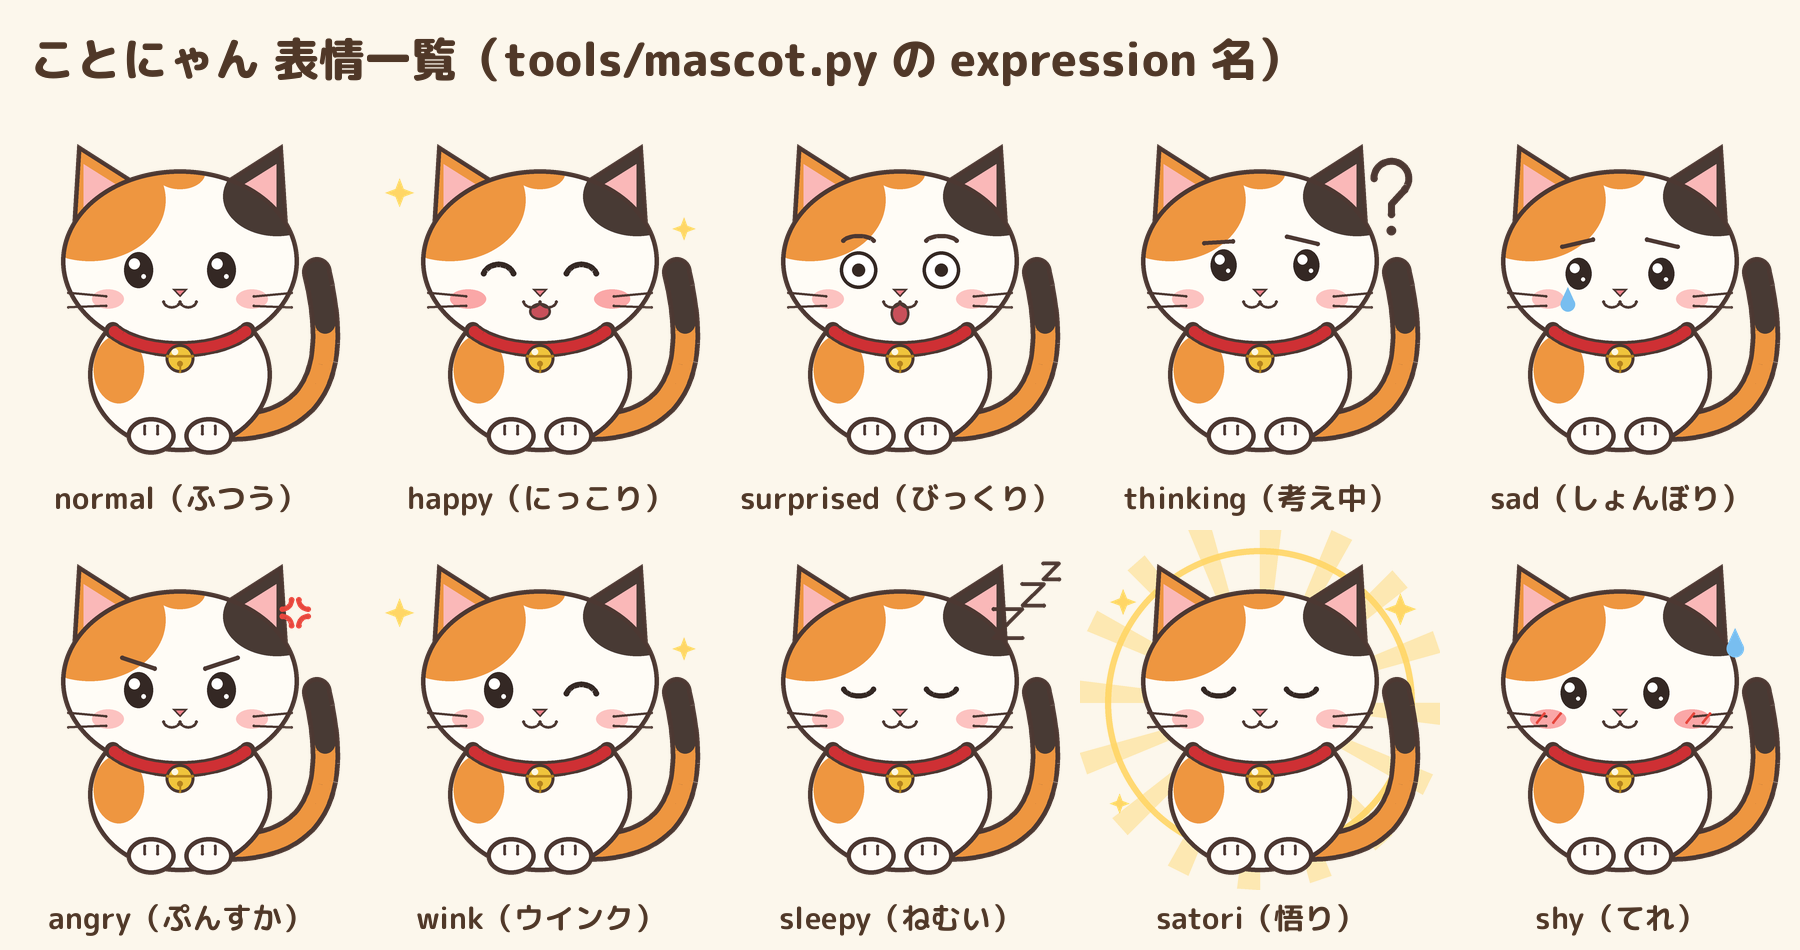
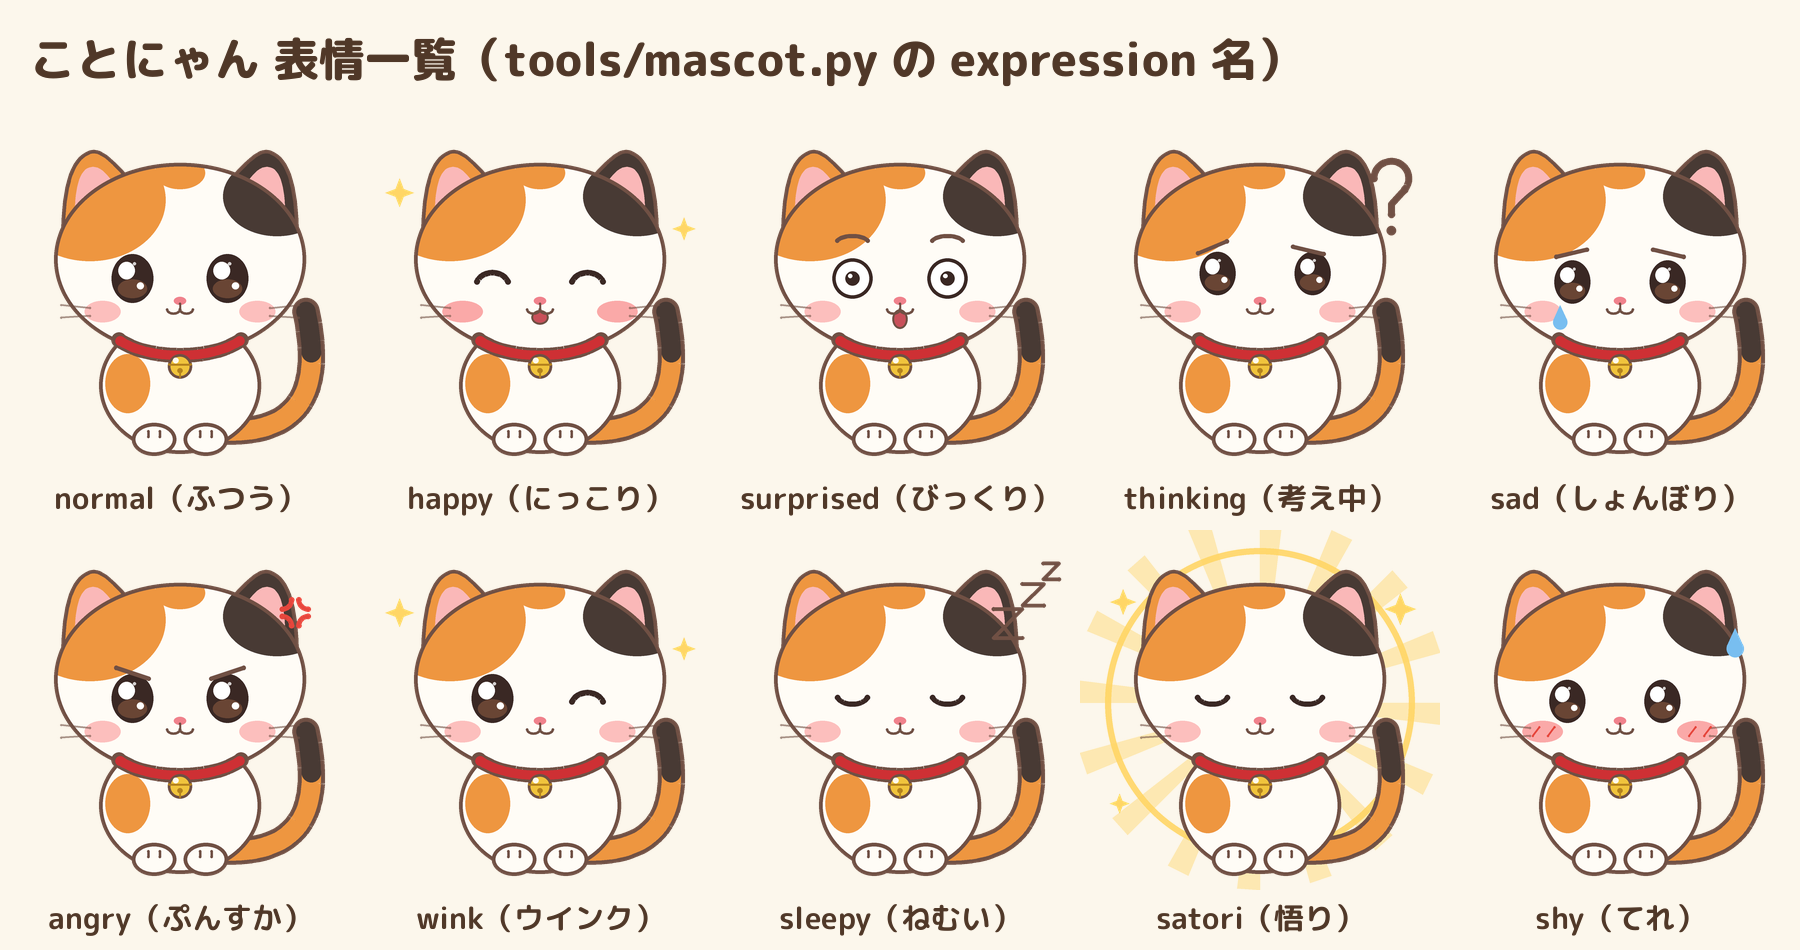
ことにゃんをより可愛く：大きな目・丸い耳・小さめの体・やわらかい線
Claude-Session: https://claude.ai/code/session_01BHfrTmYBwQnHHjxdfJomhn

diff --git a/youtube/tools/mascot.py b/youtube/tools/mascot.py
@@ -19,8 +19,9 @@ PALETTE = {
     "patch_a": (238, 150, 64),    # 三毛の茶
     "patch_b": (72, 58, 52),      # 三毛の黒
     "ear_in": (250, 184, 184),    # 耳の内側
-    "line": (76, 56, 50),         # 輪郭線
-    "eye": (52, 40, 36),
+    "line": (112, 80, 68),        # 輪郭線（やわらかい茶）
+    "eye": (58, 40, 36),
+    "iris": (128, 84, 60),        # 瞳の下のほうの明るい茶
     "nose": (240, 130, 140),
     "mouth_in": (200, 80, 90),
     "cheek": (250, 160, 160),
@@ -35,7 +36,7 @@ PALETTE = {
 
 SS = 4          # スーパーサンプリング倍率
 BASE = 1000     # 設計キャンバスのサイズ
-LW = 13         # 輪郭線の太さ
+LW = 11         # 輪郭線の太さ
 
 EXPRESSIONS = [
     "normal", "happy", "surprised", "thinking", "sad",
@@ -120,29 +121,41 @@ class _Pen:
 
 
 # ---- パーツ -------------------------------------------------------------------
-EYE_L = (385, 445)
-EYE_R = (615, 445)
-HEAD = (500, 420, 330, 255)      # cx, cy, rx, ry
+# 赤ちゃんっぽく見えるように：頭は大きく横長、目は低め・はなれ気味・大きく
+EYE_L = (368, 468)
+EYE_R = (632, 468)
+HEAD = (500, 415, 350, 268)      # cx, cy, rx, ry
 
 
 def _tail(pen, c):
     # 体の後ろから右上へ伸びるしっぽ（輪郭→茶→先っぽ黒）
     # 2次ベジェ曲線：体の右下（体に隠れる）→ 右へふくらんで → 上へ
-    p0, p1, p2 = (600, 880), (990, 900), (880, 450)
+    p0, p1, p2 = (590, 890), (930, 920), (850, 560)
     pts = []
     for i in range(41):
         t = i / 40
         pts.append(((1 - t) ** 2 * p0[0] + 2 * (1 - t) * t * p1[0] + t * t * p2[0],
                     (1 - t) ** 2 * p0[1] + 2 * (1 - t) * t * p1[1] + t * t * p2[1]))
-    pen.line(pts, c["line"], 82)
-    pen.line(pts, c["patch_a"], 82 - LW * 2)
-    pen.line(pts[-8:], c["patch_b"], 82 - LW * 2)
+    pen.line(pts, c["line"], 76)
+    pen.line(pts, c["patch_a"], 76 - LW * 2)
+    pen.line(pts[-8:], c["patch_b"], 76 - LW * 2)
+
+
+def _qbez(p0, p1, p2, n=14):
+    return [((1 - t) ** 2 * p0[0] + 2 * (1 - t) * t * p1[0] + t * t * p2[0],
+             (1 - t) ** 2 * p0[1] + 2 * (1 - t) * t * p1[1] + t * t * p2[1]) for t in (i / n for i in range(n + 1))]
 
 
 def _ear(pen, c, side):
+    """先が丸い三角の耳。"""
     sx = -1 if side == "L" else 1
-    outer = [(500 + sx * 300, 330), (500 + sx * 285, 95), (500 + sx * 120, 200)]
-    inner = [(500 + sx * 268, 285), (500 + sx * 268, 150), (500 + sx * 165, 215)]
+    X = lambda v: 500 + sx * v  # noqa: E731
+    outer = (_qbez((X(330), 360), (X(330), 150), (X(262), 118))
+             + _qbez((X(262), 118), (X(235), 100), (X(200), 128))
+             + _qbez((X(200), 128), (X(150), 170), (X(110), 230)))
+    inner = (_qbez((X(292), 320), (X(295), 185), (X(258), 162))
+             + _qbez((X(258), 162), (X(232), 150), (X(208), 175))
+             + _qbez((X(208), 175), (X(175), 210), (X(160), 250)))
     fill = c["patch_a"] if side == "L" else c["patch_b"]
     pen.polygon(outer, fill=fill, outline=c["line"], width=LW)
     pen.polygon(inner, fill=c["ear_in"])
@@ -169,57 +182,62 @@ def _head(img, pen, c):
 def _body(img, pen, c):
     _tail(pen, c)
     # 胴体（座った姿勢）
-    pen.ellipse(500, 735, 255, 215, fill=c["fur"], outline=c["line"], width=LW)
-    pen.ellipse(330, 720, 70, 95, fill=c["patch_a"])     # 体の茶ぶち
-    pen.ellipse(500, 735, 255, 215, outline=c["line"], width=LW)
-    # 前足
-    for x in (420, 580):
-        pen.ellipse(x, 905, 68, 52, fill=c["fur"], outline=c["line"], width=LW)
-        for dx in (-18, 18):
-            pen.line([(x + dx, 878), (x + dx, 900)], c["line"], 8)
+    pen.ellipse(500, 765, 225, 190, fill=c["fur"], outline=c["line"], width=LW)
+    pen.ellipse(355, 760, 62, 82, fill=c["patch_a"])     # 体の茶ぶち
+    pen.ellipse(500, 765, 225, 190, outline=c["line"], width=LW)
+    # 前足（ころんと丸く）
+    for x in (428, 572):
+        pen.ellipse(x, 915, 62, 46, fill=c["fur"], outline=c["line"], width=LW)
+        for dx in (-16, 16):
+            pen.line([(x + dx, 893), (x + dx, 908)], c["line"], 7)
     _ear(pen, c, "L")
     _ear(pen, c, "R")
     _head(img, pen, c)
 
 
 def _collar(pen, c, with_bell=True):
-    pen.arc(500, 560, 215, 105, 30, 150, c["line"], 46)
-    pen.arc(500, 560, 215, 105, 32, 148, c["collar"], 30)
+    pen.arc(500, 590, 200, 92, 32, 148, c["line"], 42)
+    pen.arc(500, 590, 200, 92, 34, 146, c["collar"], 27)
     if with_bell:
-        pen.circle(500, 690, 40, fill=c["bell"], outline=c["line"], width=9)
-        pen.line([(465, 684), (535, 684)], c["bell_dark"], 7)
-        pen.circle(500, 705, 8, fill=c["bell_dark"])
-        pen.line([(500, 708), (500, 728)], c["bell_dark"], 6)
-        pen.circle(486, 672, 9, fill=(255, 255, 255, 220))
+        bx, by = 500, 712
+        pen.circle(bx, by, 34, fill=c["bell"], outline=c["line"], width=8)
+        pen.line([(bx - 30, by - 5), (bx + 30, by - 5)], c["bell_dark"], 6)
+        pen.circle(bx, by + 12, 7, fill=c["bell_dark"])
+        pen.line([(bx, by + 14), (bx, by + 30)], c["bell_dark"], 5)
+        pen.circle(bx - 12, by - 16, 8, fill=(255, 255, 255, 230))
 
 
 def _whiskers(pen, c):
     for side in (-1, 1):
-        for dy, ang in ((-12, -10), (14, 4)):
-            x0 = 500 + side * 205
-            pen.line([(x0, 530 + dy), (x0 + side * 105, 530 + dy + ang)], c["line"], 7)
+        for dy, ang in ((-10, -8), (12, 5)):
+            x0 = 500 + side * 250
+            pen.line([(x0, 560 + dy), (x0 + side * 80, 560 + dy + ang)], c["line"] + (150,), 6)
 
 
 def _cheeks(pen, c, strong=False):
-    a = 235 if strong else 160
-    for x in (300, 700):
-        pen.ellipse(x, 525, 50 if strong else 44, 27, fill=c["cheek"] + (a,))
+    a = 230 if strong else 170
+    for x in (285, 715):
+        pen.ellipse(x, 560, 56 if strong else 50, 30, fill=c["cheek"] + (a,))
 
 
-def _eye_open(pen, c, center, look=(0, 0), r=(40, 50)):
+def _eye_open(pen, c, center, look=(0, 0), r=(58, 68)):
+    """うるうるの大きな目：黒目＋下のほうに明るい茶＋大小のハイライト。"""
     cx, cy = center[0] + look[0], center[1] + look[1]
     pen.ellipse(cx, cy, r[0], r[1], fill=c["eye"])
-    pen.circle(cx - r[0] * 0.3, cy - r[1] * 0.35, r[0] * 0.38, fill=(255, 255, 255))
-    pen.circle(cx + r[0] * 0.35, cy + r[1] * 0.35, r[0] * 0.16, fill=(255, 255, 255))
+    pen.ellipse(cx, cy + r[1] * 0.42, r[0] * 0.7, r[1] * 0.38, fill=c["iris"] + (170,))
+    pen.ellipse(cx - r[0] * 0.28, cy - r[1] * 0.32, r[0] * 0.4, r[1] * 0.36, fill=(255, 255, 255))
+    pen.circle(cx + r[0] * 0.38, cy + r[1] * 0.3, r[0] * 0.17, fill=(255, 255, 255))
+    pen.circle(cx + r[0] * 0.1, cy - r[1] * 0.6, r[0] * 0.08, fill=(255, 255, 255, 200))
 
 
 def _eye_surprised(pen, c, center):
-    pen.circle(center[0], center[1], 52, fill=c["eye_white"], outline=c["eye"], width=10)
-    pen.circle(center[0], center[1], 18, fill=c["eye"])
+    pen.circle(center[0], center[1], 56, fill=c["eye_white"], outline=c["eye"], width=10)
+    pen.circle(center[0], center[1], 20, fill=c["eye"])
+    pen.circle(center[0] - 6, center[1] - 7, 6, fill=(255, 255, 255))
 
 
 def _eye_happy(pen, c, center):     # ∩
-    pen.arc(center[0], center[1] + 22, 44, 38, 200, 340, c["eye"], 16)
+    pen.arc(center[0], center[1] + 22, 46, 38, 200, 340, c["eye"], 16)
 
 
 def _eye_calm(pen, c, center):      # ∪
@@ -227,19 +245,20 @@ def _eye_calm(pen, c, center):      # ∪
 
 
 def _eye_line(pen, c, center):      # ー
-    pen.line([(center[0] - 42, center[1] + 5), (center[0] + 42, center[1] + 5)], c["eye"], 14)
+    pen.arc(center[0], center[1] - 8, 44, 22, 25, 155, c["eye"], 14)
 
 
 def _mouth(pen, c, open_=False, wide=False):
     # 鼻
-    pen.polygon([(478, 497), (522, 497), (500, 520)], fill=c["nose"], outline=c["line"], width=5)
+    pen.ellipse(500, 530, 17, 11, fill=c["nose"])
+    pen.line([(500, 538), (500, 552)], c["line"], 6)
     if open_:
-        h = 52 if wide else 36
-        pen.ellipse(500, 548 + h / 3, 30 if not wide else 26, h / 2 + 6, fill=c["mouth_in"],
-                    outline=c["line"], width=7)
+        h = 44 if wide else 30
+        pen.ellipse(500, 566 + h / 3, 24 if not wide else 21, h / 2 + 5, fill=c["mouth_in"],
+                    outline=c["line"], width=6)
     # ω
-    pen.arc(477, 530, 23, 18, 10, 170, c["line"], 8)
-    pen.arc(523, 530, 23, 18, 10, 170, c["line"], 8)
+    pen.arc(482, 552, 18, 14, 10, 170, c["line"], 7)
+    pen.arc(518, 552, 18, 14, 10, 170, c["line"], 7)
 
 
 def _brows(pen, c, kind):
@@ -249,14 +268,14 @@ def _brows(pen, c, kind):
         pen.arc(lx, 370, 45, 20, 200, 340, c["line"], w)
         pen.arc(rx, 370, 45, 20, 200, 340, c["line"], w)
     elif kind == "sad":
-        pen.line([(lx - 45, 380), (lx + 40, 360)], c["line"], w)
-        pen.line([(rx + 45, 380), (rx - 40, 360)], c["line"], w)
+        pen.line([(lx - 45, 408), (lx + 40, 388)], c["line"], w)
+        pen.line([(rx + 45, 408), (rx - 40, 388)], c["line"], w)
     elif kind == "angry":
-        pen.line([(lx - 45, 355), (lx + 45, 385)], c["line"], w)
-        pen.line([(rx + 45, 355), (rx - 45, 385)], c["line"], w)
+        pen.line([(lx - 45, 383), (lx + 45, 413)], c["line"], w)
+        pen.line([(rx + 45, 383), (rx - 45, 413)], c["line"], w)
     elif kind == "think":
-        pen.line([(lx - 40, 370), (lx + 40, 365)], c["line"], w)
-        pen.line([(rx - 40, 352), (rx + 45, 372)], c["line"], w)
+        pen.line([(lx - 40, 398), (lx + 40, 365)], c["line"], w)
+        pen.line([(rx - 40, 380), (rx + 45, 400)], c["line"], w)
 
 
 def _sweat(pen, c, x, y, r=22):
@@ -346,11 +365,11 @@ def draw(expression: str = "normal", size: int = 512, talking: bool = False,
         _eye_surprised(pen, c, EYE_L)
         _eye_surprised(pen, c, EYE_R)
     elif e == "thinking":
-        _eye_open(pen, c, EYE_L, (14, -14), (36, 44))
-        _eye_open(pen, c, EYE_R, (14, -14), (36, 44))
+        _eye_open(pen, c, EYE_L, (14, -14), (50, 60))
+        _eye_open(pen, c, EYE_R, (14, -14), (50, 60))
     elif e == "sad":
-        _eye_open(pen, c, EYE_L, (0, 10), (36, 44))
-        _eye_open(pen, c, EYE_R, (0, 10), (36, 44))
+        _eye_open(pen, c, EYE_L, (0, 10), (50, 60))
+        _eye_open(pen, c, EYE_R, (0, 10), (50, 60))
     elif e == "wink":
         _eye_open(pen, c, EYE_L)
         _eye_happy(pen, c, EYE_R)
@@ -358,8 +377,8 @@ def draw(expression: str = "normal", size: int = 512, talking: bool = False,
         _eye_calm(pen, c, EYE_L)
         _eye_calm(pen, c, EYE_R)
     elif e == "shy":
-        _eye_open(pen, c, EYE_L, (-14, 8), (36, 44))
-        _eye_open(pen, c, EYE_R, (-14, 8), (36, 44))
+        _eye_open(pen, c, EYE_L, (-14, 8), (50, 60))
+        _eye_open(pen, c, EYE_R, (-14, 8), (50, 60))
 
     # --- 口・ほっぺ・ひげ・眉・効果 ---
     _cheeks(pen, c, strong=(e in ("shy", "happy")))
@@ -370,7 +389,7 @@ def draw(expression: str = "normal", size: int = 512, talking: bool = False,
         _brows(pen, c, "up")
     elif e == "sad":
         _brows(pen, c, "sad")
-        _sweat(pen, c, EYE_L[0] - 30, 540, 20)   # 涙
+        _sweat(pen, c, EYE_L[0] - 34, 590, 20)   # 涙
     elif e == "angry":
         _brows(pen, c, "angry")
         _anger_mark(pen, c)
@@ -381,8 +400,8 @@ def draw(expression: str = "normal", size: int = 512, talking: bool = False,
         _zzz(pen, c)
     elif e == "shy":
         _sweat(pen, c, 820, 330, 24)
-        for x in (270, 315, 685, 730):            # 赤面の斜線
-            pen.line([(x, 535), (x + 20, 510)], c["anger"], 7)
+        for x in (258, 300, 692, 734):            # 赤面の斜線
+            pen.line([(x, 572), (x + 18, 548)], c["anger"], 6)
     elif e in ("happy", "wink"):
         _sparkles(pen, c, [(110, 230, 40), (900, 330, 32)])
     elif e == "satori":

diff --git a/youtube/character/PROFILE.md b/youtube/character/PROFILE.md
@@ -22,7 +22,7 @@
 | 白い毛 | 255, 252, 246 | `#FFFCF6` |
 | 三毛の茶 | 238, 150, 64 | `#EE9640` |
 | 三毛の黒 | 72, 58, 52 | `#483A34` |
-| 輪郭線 | 76, 56, 50 | `#4C3832` |
+| 輪郭線 | 112, 80, 68 | `#705044` |
 | 耳の内側 | 250, 184, 184 | `#FAB8B8` |
 | 首輪 | 206, 48, 52 | `#CE3034` |
 | 鈴 | 240, 196, 60 | `#F0C43C` |
